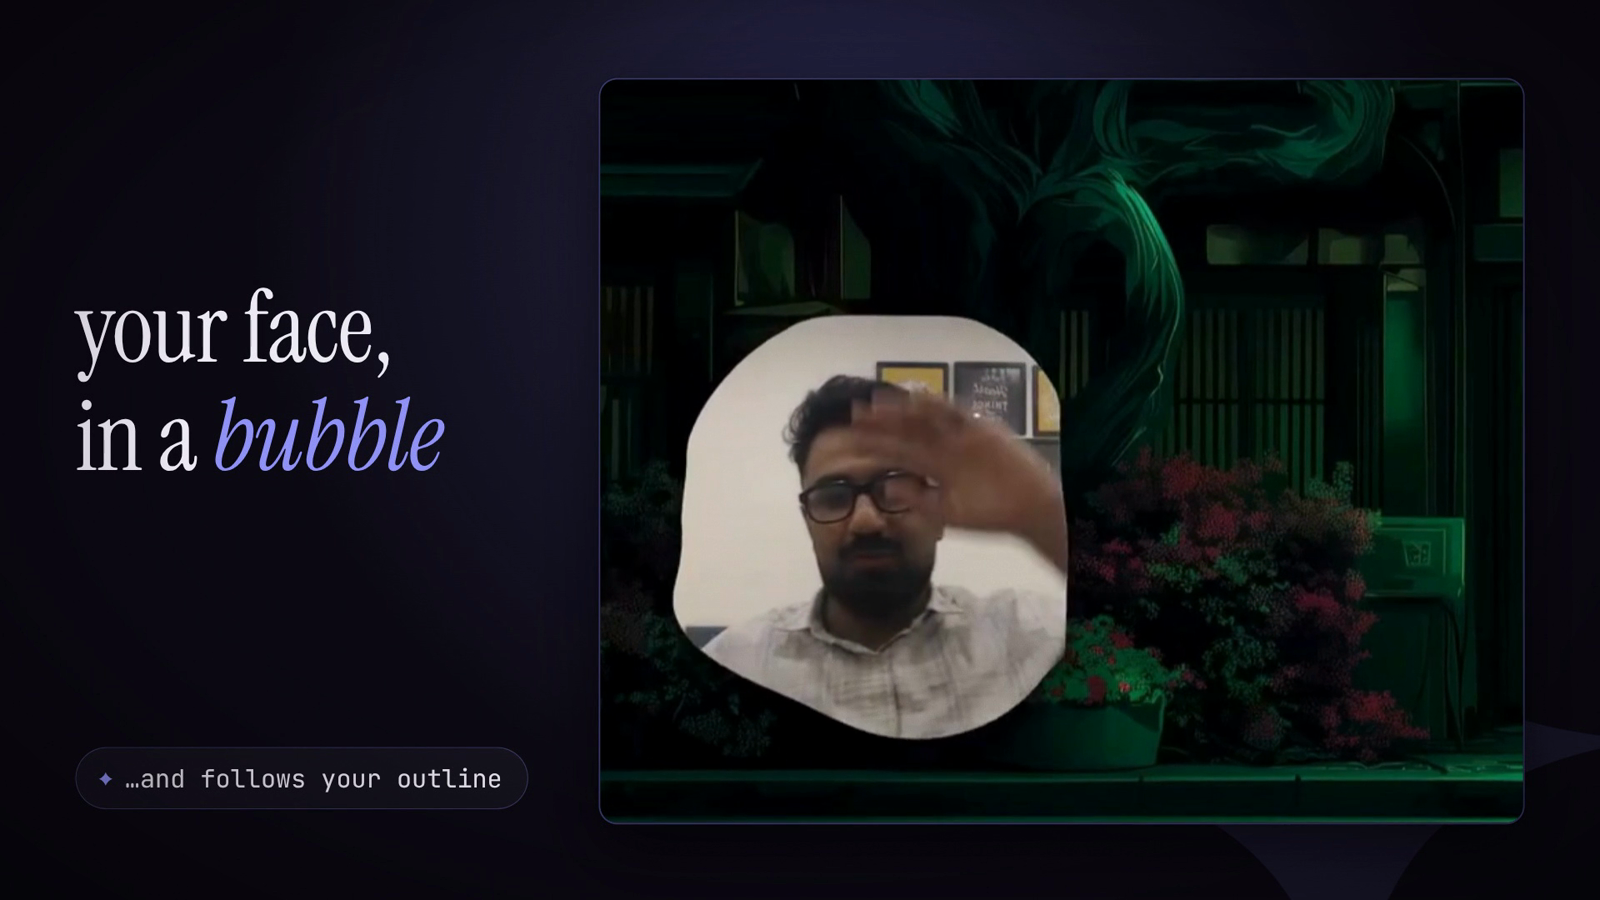
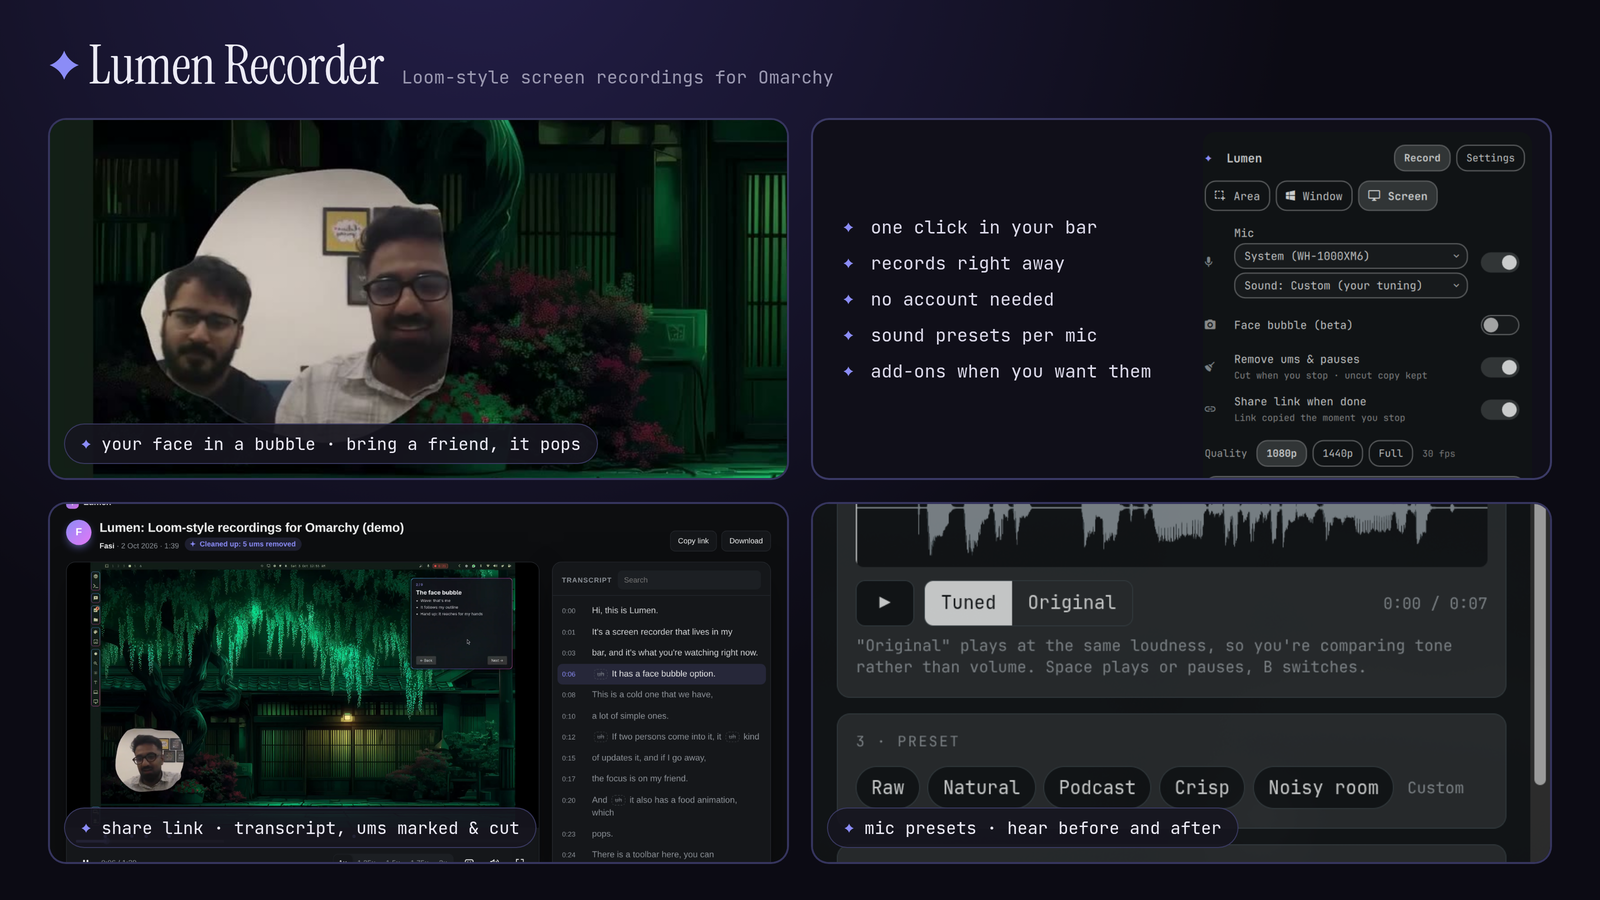
Lumen Recorder 1.2.0: sound presets under the mic, noise removal on every machine, README 'The little things'

diff --git a/Panel.qml b/Panel.qml
@@ -392,6 +392,32 @@ Panel {
                   }
                   onChanged: function(v) { root.choose("mic", v) }
                 }
+                // How this mic sounds in recordings: a preset in one click, or the tuner.
+                Dropdown {
+                  width: parent.width
+                  showLabel: false
+                  foreground: root.fg
+                  fontFamily: root.fontFamily
+                  value: root.activeMicEntry && root.activeMicEntry.tuned ? String(root.activeMicEntry.preset || "Custom") : "Natural"
+                  options: {
+                    var o = [
+                      { value: "Natural", label: "Sound: Natural" },
+                      { value: "Podcast", label: "Sound: Podcast · warmer, fuller" },
+                      { value: "Crisp", label: "Sound: Crisp · clearer speech" },
+                      { value: "Noisy room", label: "Sound: Noisy room · strong noise removal" },
+                      { value: "Raw", label: "Sound: Raw · exactly as recorded" }
+                    ]
+                    var cur = root.activeMicEntry && root.activeMicEntry.tuned ? String(root.activeMicEntry.preset || "Custom") : ""
+                    if (cur && ["Natural", "Podcast", "Crisp", "Noisy room", "Raw"].indexOf(cur) === -1)
+                      o.push({ value: cur, label: "Sound: " + cur + " (your tuning)" })
+                    o.push({ value: "__tune", label: "Fine-tune by ear…" })
+                    return o
+                  }
+                  onChanged: function(v) {
+                    if (v === "__tune") { Util.execArgv([root.home + "/bin/voice-tune"]); root.close() }
+                    else Util.execArgv([root.home + "/bin/voice-tune", "--set-preset", v, "--mic", root.activeMic])
+                  }
+                }
               }
             }
             SwitchRow {

diff --git a/tuner/tuner.py b/tuner/tuner.py
@@ -48,7 +48,7 @@ WARMUP = 1.0
 PARAMS = {
     "gain":      (-12, 12, 0.5, 0, "Input trim", "dB", "Turn down if the sample clips"),
     "rumble":    (20, 250, 5, 80, "Rumble cut", "Hz", "Removes desk thumps, fans, AC hum"),
-    "denoise":   (0, 100, 5, 60, "Noise removal", "%", "AI noise removal (RNNoise); too much sounds robotic"),
+    "denoise":   (0, 100, 5, 60, "Noise removal", "%", "Removes hiss, fans and room noise; too much sounds robotic"),
     "warmth":    (-6, 6, 0.5, 0, "Warmth", "dB", "Body of the voice, around 150 Hz"),
     "mud":       (-8, 0, 0.5, -2, "Mud cut", "dB", "Boxy, muffled room sound, around 350 Hz"),
     "presence":  (-6, 8, 0.5, 2, "Clarity", "dB", "Words cut through, around 3.5 kHz"),
@@ -84,9 +84,13 @@ def voice_filter(p):
         f.append(f"volume={p['gain']}dB")
     # Always at least 20 Hz: the mic waking from standby leaves a DC offset.
     f.append(f"highpass=f={max(p['rumble'], 20):g}:poles=2")
-    # RNNoise needs its model file; without it the chain must not mention it (ffmpeg would fail).
-    if p["denoise"] > 0 and os.path.exists(MODEL):
-        f.append(f"arnndn=m={MODEL}:mix={p['denoise'] / 100:.2f}")
+    # Noise removal: RNNoise (AI) when its model file is installed, else ffmpeg's own
+    # spectral denoiser, which needs nothing extra (milder, but every preset still works).
+    if p["denoise"] > 0:
+        if os.path.exists(MODEL):
+            f.append(f"arnndn=m={MODEL}:mix={p['denoise'] / 100:.2f}")
+        else:
+            f.append(f"afftdn=nr={6 + 0.24 * p['denoise']:.1f}:tn=1")
     if p["warmth"]:
         f.append(f"equalizer=f=150:t=q:w=0.8:g={p['warmth']:g}")
     if p["mud"]:
@@ -453,7 +457,21 @@ def open_window():
     os._exit(0)
 
 
+def set_preset(name, mic=None):
+    """`voice-tune --set-preset NAME [--mic SOURCE]`: give a mic one of the presets without
+    opening the window (the popup's Sound menu uses this)."""
+    if name not in PRESETS:
+        sys.exit(f"voice-tune: no preset called {name!r} (have: {', '.join(PRESETS)})")
+    mic = mic or recorder_mic()
+    label = next((m["label"] for m in mics() if m["name"] == mic), None)
+    save({"mic": mic, "params": PRESETS[name], "preset": name, "label": label})
+    print(f"{mic}: {name}")
+
+
 def main():
+    if len(sys.argv) >= 3 and sys.argv[1] == "--set-preset":
+        mic = sys.argv[sys.argv.index("--mic") + 1] if "--mic" in sys.argv[3:-1] or "--mic" in sys.argv[3:] else None
+        return set_preset(sys.argv[2], mic)
     for c in clients():   # already open: just focus it
         if c.get("title") == TITLE:
             dsp(f'hl.dsp.focus({{ window = "address:{c["address"]}" }})')

diff --git a/README.md b/README.md
@@ -19,7 +19,33 @@ Click the ✦ in your top bar, record your screen with your voice and your face 
 
 | Two people? The bubble joins you, then pops | Hover the bubble to restyle it | The share page |
 |---|---|---|
-| <img src="docs/bubble-pop.gif" alt="A friend leans into the bubble; it joins both people, then pops apart" width="260"> | <img src="docs/bubble-toolbar.gif" alt="The bubble toolbar switching the outline from plain to glow to rainbow" width="240"> | <img src="docs/share-page.gif" alt="The share page with the player, transcript and speed buttons" width="300"> |
+| <img src="docs/bubble-pop.gif" alt="A friend leans into the bubble; it joins both people, then pops apart" width="260"> | <img src="docs/bubble-toolbar.gif" alt="The bubble toolbar switching the outline from plain to glow to rainbow" width="240"> | <img src="docs/share-page.gif" alt="The share page playing, the transcript following along, then a search that jumps to the line" width="300"> |
+
+## The little things
+
+<img src="docs/tuner.jpg" alt="The mic tuner: a sample's waveform, Tuned and Original buttons, and the presets" width="300" align="right">
+
+- **Your mic, made to sound good.** Pick a sound right under the mic: Natural, Podcast, Crisp or Noisy room. Or fine-tune it by ear: record a few seconds, then flip between *Tuned* and *Original*, played at the same loudness so you hear the tone, not the volume. Each mic keeps its own sound, so your headset and your webcam mic can be tuned differently.
+- **Ums in more than one language.** Lumen cuts English hesitations and the usual Urdu and Hindi ones. It never cuts real words like "like" or "so", and it listens again afterwards to check nothing was missed.
+- **The bubble listens.** While you record, it ripples gently as you talk.
+- **The link comes first.** It's on your clipboard the moment you stop, while Lumen is still saving and uploading.
+- **GIF mode** for quick loops: silent, and it pastes into any chat as an image.
+- **Small conveniences:** a live "about 20 MB per minute" estimate, AV1 for files about a third of the size, and if the screen you picked is unplugged, it records the one you're on.
+
+<br clear="right">
+
+**The share page**
+
+<img src="docs/hover-preview.jpg" alt="Hovering the timeline: a preview frame and the label 'uh removed' above a purple dot" width="420" align="right">
+
+- **You can see what was cut.** Purple dots on the timeline mark each removed "um", and hovering one tells you which. The transcript shows them struck through.
+- **Hover previews** on the timeline, like YouTube.
+- **Search the transcript**, then click a line to jump there. Captions, AI chapters, speeds up to 2×, and keyboard shortcuts (space, ← →, < >, C, F).
+- **It looks right when pasted.** Chat and social apps show a preview card with the title and how many ums were cut. Those link previews and bots don't count as views, so the view count is real people.
+
+<br clear="right">
+
+<p align="center"><img src="docs/paste-anywhere.jpg" alt="A pasted Lumen link showing a preview card with the video's title and '5 ums removed'" width="480"></p>
 
 ## Why Lumen, not Loom?
 

diff --git a/CHANGELOG.md b/CHANGELOG.md
@@ -1,5 +1,11 @@
 # Changelog
 
+## 1.2.0
+
+- **Sound presets one click away:** a Sound menu right under the mic (Natural, Podcast, Crisp, Noisy room, Raw), or *Fine-tune by ear…* for the tuner. Each mic keeps its own.
+- **Noise removal works on every machine:** it used to need an RNNoise model file Lumen never installed; without it, ffmpeg's own denoiser now does the job at the same strength.
+- README: the little things (presets, multilingual ums, the share page's previews and cut marks, link preview cards); new marketplace preview.
+
 ## 1.1.0
 
 Simpler to start, and ready for the Omarchy plugin marketplace.
